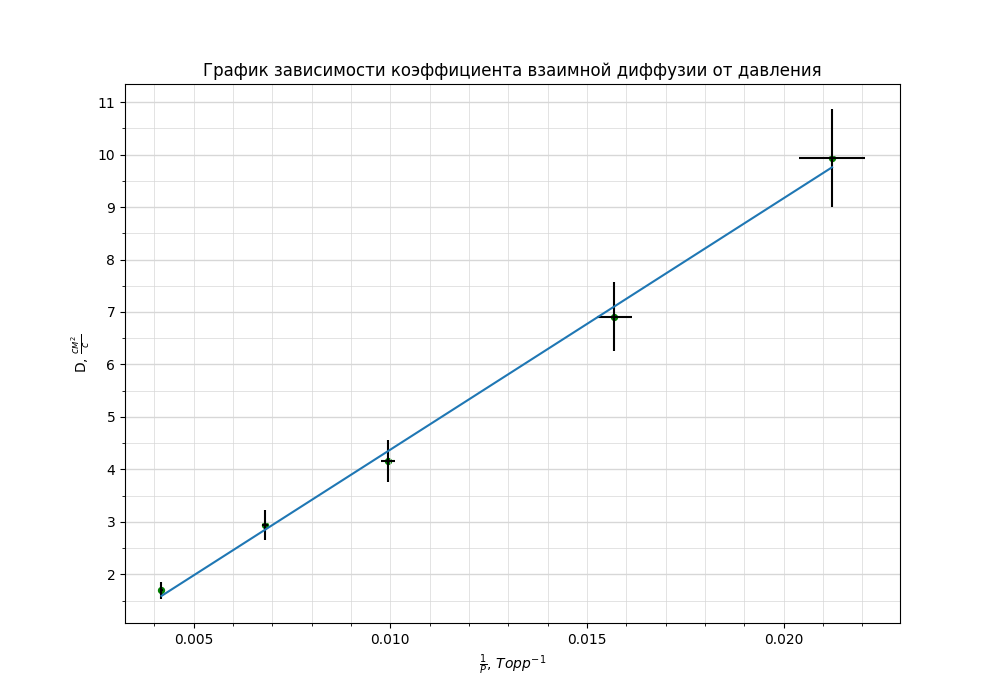
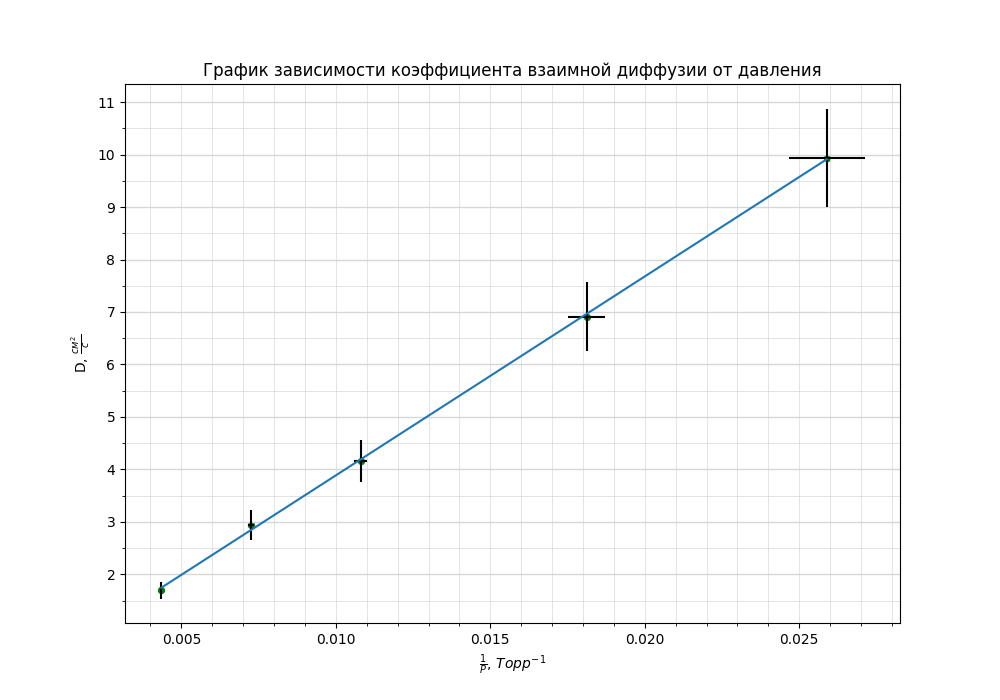
2.2.1 fixed

diff --git a/2 Семестр/2.2.1/plotD.py b/2 Семестр/2.2.1/plotD.py
@@ -5,7 +5,7 @@ from matplotlib.ticker import MultipleLocator
 plt.figure(figsize=(10,7))  #Размер изображения
 plt.title('График зависимости коэффициента взаимной диффузии от давления') # Заголовок
 
-x = [0.02123, 0.015699, 0.009942, 0.006818, 0.004186] # Координата x
+x = [0.02589, 0.01812, 0.0108, 0.00725, 0.00435] # Координата x
 y = [9.94, 6.91, 4.16, 2.94, 1.70] # Координата y
 
 
@@ -15,7 +15,7 @@ plt.xlabel(r'$\frac{1}{P}$, $Торр^{-1}$') # Подпись абсцисс
 plt.ylabel(r'D, $\frac{см^2}{с}$') # Подпись ординат
 
 yerr = [0.938, 0.652, 0.392, 0.277, 0.161]  # Погрешность по y
-xerr = [0.000831, 0.000454, 0.000182, 0.0000857, 0.0000323] # Погрешность по x
+xerr = [0.001233, 0.000604, 0.000218, 0.000097, 0.000035] # Погрешность по x
 plt.errorbar(x, y, xerr=xerr, yerr=yerr, fmt=" ", color='k')
 
 p = np.polyfit(x, y, deg=1) # Построение кривой по мнк
